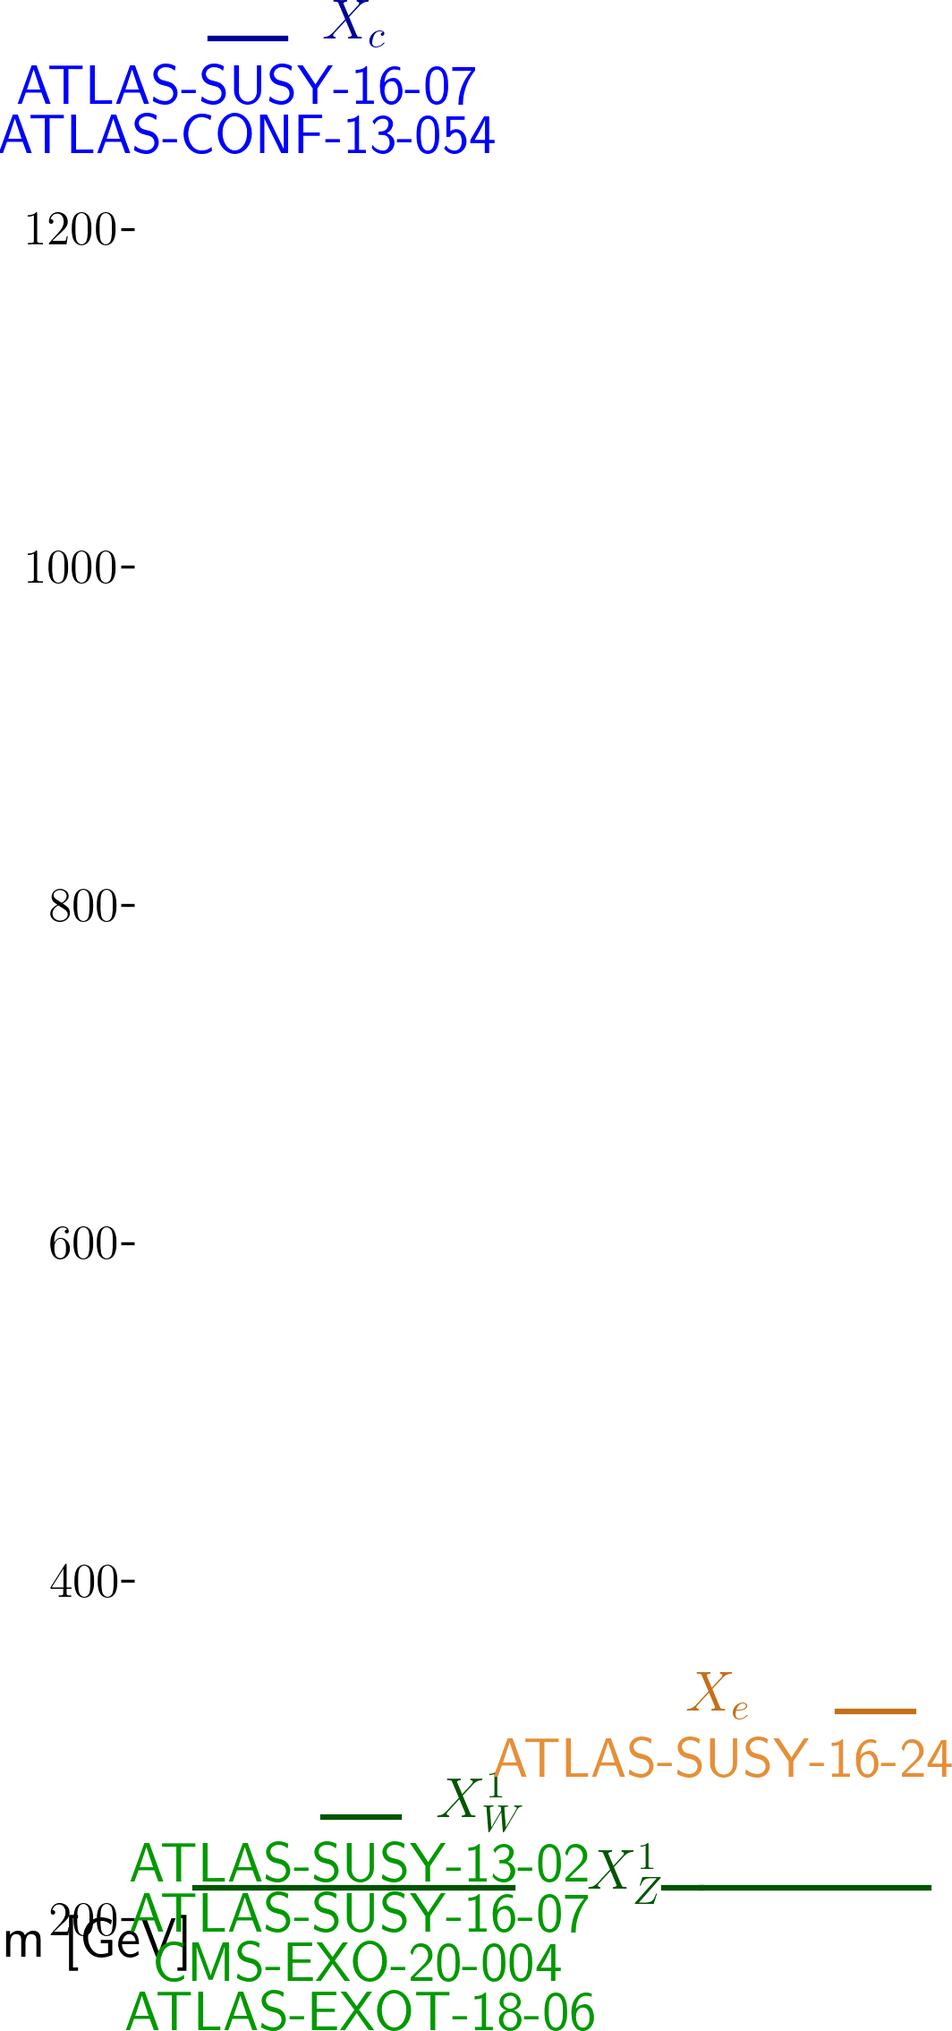
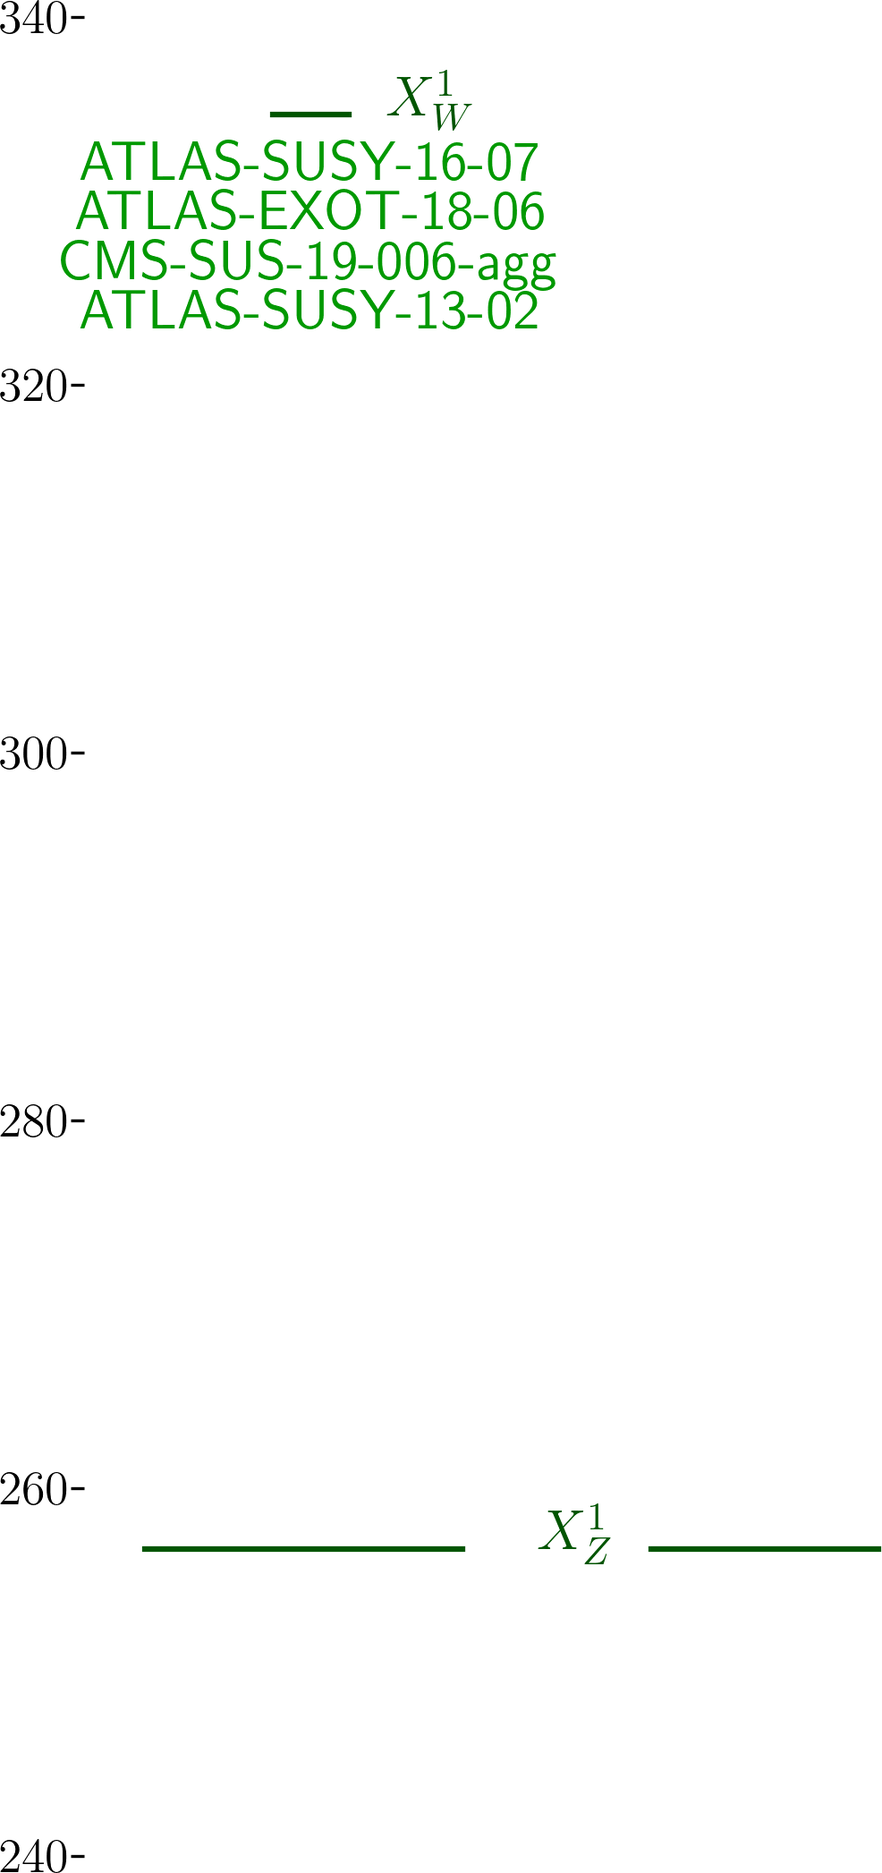
automated update by plotHiscore.py to fake_ewkoff1_310:     K=16.124 TL=18.87 walkerid=0

diff --git a/protomodels/fake_ewkoff1_310/rawnumbers.html b/protomodels/fake_ewkoff1_310/rawnumbers.html
@@ -1,45 +1,18 @@
 <table>
 <tr><th>Analysis Name</th><th>Type</th><th>Dataset</th><th>Topos</th><th>Observed</th><th>Expected</th><th>Approx &sigma;</th><th>Particles</th><th>Signal</th>
 </tr>
-<tr><td><a href=http://cms-results.web.cern.ch/cms-results/public-results/publications/EXO-20-004/>CMS-EXO-20-004</a></td><td>comb</td> <td>-</td><td>TChiWWISRqq, TChiZISRqq</td><td> 1e+02 fb </td><td> 9e+01 fb</td><td style="text-align:right">2.9 &sigma;</td><td style="text-align:right">X<sup>1</sup><sub>W</sub>, X<sup>1</sup><sub>Z</sub></td><td style="text-align:right">-</td></tr>
-<tr><td><a href=https://atlas.web.cern.ch/Atlas/GROUPS/PHYSICS/PAPERS/EXOT-2018-06/>ATLAS-EXOT-2018-06</a></td><td>em</td> <td>IM4</td><td>TChiWWISRqq, TChiZISRqq</td><td>152564</td><td>146400.00 +/- 2300.00</td><td style="text-align:right">2.6 &sigma;</td><td style="text-align:right">X<sup>1</sup><sub>W</sub>, X<sup>1</sup><sub>Z</sub></td><td style="text-align:right">3478</td></tr>
-<tr><td><a href=https://atlas.web.cern.ch/Atlas/GROUPS/PHYSICS/PAPERS/SUSY-2016-24/>ATLAS-SUSY-2016-24</a></td><td>em</td> <td>SR2-SF-tight</td><td>TSelSel</td><td>21</td><td>9.80 +/- 2.90</td><td style="text-align:right">2.3 &sigma;</td><td style="text-align:right">X<sub>e</sub>, X<sup>1</sup><sub>Z</sub></td><td style="text-align:right">-</td></tr>
-<tr><td><a href=https://atlas.web.cern.ch/Atlas/GROUPS/PHYSICS/CONFNOTES/ATLAS-CONF-2013-054/>ATLAS-CONF-2013-054</a></td><td>em</td> <td>9j50 flavor 0 b ...</td><td>T2</td><td>6</td><td>3.30 +/- 0.70</td><td style="text-align:right">1.3 &sigma;</td><td style="text-align:right">X<sub>c</sub>, X<sup>1</sup><sub>Z</sub></td><td style="text-align:right">-</td></tr>
-<tr><td><a href=https://atlas.web.cern.ch/Atlas/GROUPS/PHYSICS/PAPERS/SUSY-2016-07/>ATLAS-SUSY-2016-07</a></td><td>em</td> <td>5j_Meff_2000</td><td>T1, T2</td><td>78</td><td>65.00 +/- 7.00</td><td style="text-align:right">1.2 &sigma;</td><td style="text-align:right">X<sup>1</sup><sub>W</sub>, X<sub>c</sub>, X<sup>1</sup><sub>Z</sub></td><td style="text-align:right">-</td></tr>
-<tr><td><a href=https://atlas.web.cern.ch/Atlas/GROUPS/PHYSICS/PAPERS/SUSY-2013-02/>ATLAS-SUSY-2013-02</a></td><td>em</td> <td>SR3j</td><td>T1</td><td>7</td><td>5.00 +/- 1.20</td><td style="text-align:right">0.8 &sigma;</td><td style="text-align:right">X<sup>1</sup><sub>W</sub>, X<sup>1</sup><sub>Z</sub></td><td style="text-align:right">-</td></tr>
+<tr><td><a href=https://atlas.web.cern.ch/Atlas/GROUPS/PHYSICS/PAPERS/EXOT-2018-06/>ATLAS-EXOT-2018-06</a></td><td>em</td> <td>EM7</td><td>TChiISR, TChiWISRll, TChiWWISRqq, TChiZISRqq</td><td>4259</td><td>3870.00 +/- 80.00</td><td style="text-align:right">4.1 &sigma;</td><td style="text-align:right">X<sup>1</sup><sub>W</sub>, X<sup>1</sup><sub>Z</sub></td><td style="text-align:right">184</td></tr>
+<tr><td><a href=http://cms-results.web.cern.ch/cms-results/public-results/publications/SUS-19-006/index.html>CMS-SUS-19-006-agg</a></td><td>comb</td> <td>-</td><td>T1</td><td> 1e+01 fb </td><td> 1e+01 fb</td><td style="text-align:right">1.7 &sigma;</td><td style="text-align:right">X<sup>1</sup><sub>W</sub>, X<sup>1</sup><sub>Z</sub></td><td style="text-align:right">-</td></tr>
+<tr><td><a href=https://atlas.web.cern.ch/Atlas/GROUPS/PHYSICS/PAPERS/SUSY-2016-07/>ATLAS-SUSY-2016-07</a></td><td>em</td> <td>5j_Meff_1700</td><td>T1</td><td>50</td><td>43.00 +/- 5.00</td><td style="text-align:right">0.9 &sigma;</td><td style="text-align:right">X<sup>1</sup><sub>W</sub>, X<sup>1</sup><sub>Z</sub></td><td style="text-align:right">-</td></tr>
+<tr><td><a href=https://atlas.web.cern.ch/Atlas/GROUPS/PHYSICS/PAPERS/SUSY-2013-02/>ATLAS-SUSY-2013-02</a></td><td>em</td> <td>SR6jm</td><td>T1</td><td>36</td><td>33.00 +/- 6.00</td><td style="text-align:right">0.4 &sigma;</td><td style="text-align:right">X<sup>1</sup><sub>W</sub>, X<sup>1</sup><sub>Z</sub></td><td style="text-align:right">-</td></tr>
 </table>
 <table style='color:grey'>
-<tr><th>Not in Best Combo</th><th>Type</th><th>Dataset</th><th>Topos</th><th>Observed</th><th>Expected</th><th>Approx &sigma;</th><th>Particles</th><tr><td><a href=https://atlas.web.cern.ch/Atlas/GROUPS/PHYSICS/CONFNOTES/ATLAS-CONF-2013-047/>ATLAS-CONF-2013-047</a></td><td>em</td> <td>C Tight</td><td>T2</td><td>9</td><td>1.60 +/- 1.40</td><td style="text-align:right">2.8 &sigma;</td><td style="text-align:right">X<sub>c</sub>, X<sup>1</sup><sub>Z</sub></td><td style="text-align:right">-</td></tr>
-<tr><td><a href=http://atlas.web.cern.ch/Atlas/GROUPS/PHYSICS/PAPERS/SUSY-2015-06/>ATLAS-SUSY-2015-06</a></td><td>em</td> <td>SR2jl</td><td>T2</td><td>340</td><td>283.00 +/- 24.00</td><td style="text-align:right">1.9 &sigma;</td><td style="text-align:right">X<sub>c</sub>, X<sup>1</sup><sub>Z</sub></td><td style="text-align:right">-</td></tr>
-<tr><td><a href=http://cms-results.web.cern.ch/cms-results/public-results/publications/SUS-16-033/index.html>CMS-SUS-16-033</a></td><td>em</td> <td>SR1_Njet2_Nb0_H ...</td><td>T1, T2</td><td>8402</td><td>7584.00 +/- 433.00</td><td style="text-align:right">1.8 &sigma;</td><td style="text-align:right">X<sup>1</sup><sub>W</sub>, X<sub>c</sub>, X<sup>1</sup><sub>Z</sub></td><td style="text-align:right">-</td></tr>
-<tr><td><a href=https://atlas.web.cern.ch/Atlas/GROUPS/PHYSICS/CONFNOTES/ATLAS-CONF-2013-047/>ATLAS-CONF-2013-047</a></td><td>em</td> <td>E Medium</td><td>T2</td><td>43</td><td>30.00 +/- 8.00</td><td style="text-align:right">1.3 &sigma;</td><td style="text-align:right">X<sub>c</sub>, X<sup>1</sup><sub>Z</sub></td><td style="text-align:right">-</td></tr>
-<tr><td><a href=https://atlas.web.cern.ch/Atlas/GROUPS/PHYSICS/CONFNOTES/ATLAS-CONF-2013-047/>ATLAS-CONF-2013-047</a></td><td>em</td> <td>B Medium</td><td>T2</td><td>44</td><td>33.00 +/- 7.00</td><td style="text-align:right">1.2 &sigma;</td><td style="text-align:right">X<sub>c</sub>, X<sup>1</sup><sub>Z</sub></td><td style="text-align:right">-</td></tr>
-<tr><td><a href=http://cms-results.web.cern.ch/cms-results/public-results/publications/SUS-16-033/index.html>CMS-SUS-16-033</a></td><td>em</td> <td>SR11_Njet7_Nb1_ ...</td><td>T1, T2</td><td>1056</td><td>969.00 +/- 80.00</td><td style="text-align:right">1.0 &sigma;</td><td style="text-align:right">X<sup>1</sup><sub>W</sub>, X<sub>c</sub>, X<sup>1</sup><sub>Z</sub></td><td style="text-align:right">-</td></tr>
-<tr><td><a href=http://cms-results.web.cern.ch/cms-results/public-results/publications/SUS-16-033/index.html>CMS-SUS-16-033</a></td><td>em</td> <td>SR9_NJet5_Nb2_H ...</td><td>T2</td><td>8</td><td>4.40 +/- 3.40</td><td style="text-align:right">0.8 &sigma;</td><td style="text-align:right">X<sub>c</sub>, X<sup>1</sup><sub>Z</sub></td><td style="text-align:right">-</td></tr>
-<tr><td><a href=https://atlas.web.cern.ch/Atlas/GROUPS/PHYSICS/PAPERS/SUSY-2018-22/>ATLAS-SUSY-2018-22</a></td><td>em</td> <td>SR2j_2800</td><td>T2</td><td>94</td><td>87.00 +/- 8.00</td><td style="text-align:right">0.6 &sigma;</td><td style="text-align:right">X<sub>c</sub>, X<sup>1</sup><sub>Z</sub></td><td style="text-align:right">-</td></tr>
-<tr><td><a href=https://atlas.web.cern.ch/Atlas/GROUPS/PHYSICS/CONFNOTES/ATLAS-CONF-2013-047/>ATLAS-CONF-2013-047</a></td><td>em</td> <td>D</td><td>T2</td><td>18</td><td>15.00 +/- 5.00</td><td style="text-align:right">0.5 &sigma;</td><td style="text-align:right">X<sub>c</sub>, X<sup>1</sup><sub>Z</sub></td><td style="text-align:right">-</td></tr>
-<tr><td><a href=http://atlas.web.cern.ch/Atlas/GROUPS/PHYSICS/PAPERS/SUSY-2015-06/>ATLAS-SUSY-2015-06</a></td><td>em</td> <td>SR4jt</td><td>T2</td><td>5</td><td>4.10 +/- 1.10</td><td style="text-align:right">0.5 &sigma;</td><td style="text-align:right">X<sub>c</sub>, X<sup>1</sup><sub>Z</sub></td><td style="text-align:right">-</td></tr>
-<tr><td><a href=http://atlas.web.cern.ch/Atlas/GROUPS/PHYSICS/PAPERS/SUSY-2015-06/>ATLAS-SUSY-2015-06</a></td><td>em</td> <td>SR6jm</td><td>T2</td><td>8</td><td>6.90 +/- 1.50</td><td style="text-align:right">0.4 &sigma;</td><td style="text-align:right">X<sub>c</sub>, X<sup>1</sup><sub>Z</sub></td><td style="text-align:right">-</td></tr>
-<tr><td><a href=https://atlas.web.cern.ch/Atlas/GROUPS/PHYSICS/CONFNOTES/ATLAS-CONF-2013-047/>ATLAS-CONF-2013-047</a></td><td>em</td> <td>B Tight</td><td>T2</td><td>3</td><td>2.40 +/- 1.40</td><td style="text-align:right">0.4 &sigma;</td><td style="text-align:right">X<sub>c</sub>, X<sup>1</sup><sub>Z</sub></td><td style="text-align:right">-</td></tr>
-<tr><td><a href=http://cms-results.web.cern.ch/cms-results/public-results/publications/SUS-16-033/index.html>CMS-SUS-16-033</a></td><td>em</td> <td>SR7_Njet3_Nb1_H ...</td><td>T2</td><td>119</td><td>113.00 +/- 18.00</td><td style="text-align:right">0.3 &sigma;</td><td style="text-align:right">X<sub>c</sub>, X<sup>1</sup><sub>Z</sub></td><td style="text-align:right">-</td></tr>
-<tr><td><a href=http://cms-results.web.cern.ch/cms-results/public-results/publications/SUS-16-033/index.html>CMS-SUS-16-033</a></td><td>em</td> <td>SR3_Njet5_Nb0_H ...</td><td>T1, T2</td><td>820</td><td>806.00 +/- 57.00</td><td style="text-align:right">0.2 &sigma;</td><td style="text-align:right">X<sup>1</sup><sub>W</sub>, X<sub>c</sub>, X<sup>1</sup><sub>Z</sub></td><td style="text-align:right">-</td></tr>
-<tr><td><a href=http://cms-results.web.cern.ch/cms-results/public-results/publications/SUS-16-033/index.html>CMS-SUS-16-033</a></td><td>em</td> <td>SR4_Njet5_Nb0_H ...</td><td>T2</td><td>24</td><td>23.00 +/- 6.50</td><td style="text-align:right">0.2 &sigma;</td><td style="text-align:right">X<sub>c</sub>, X<sup>1</sup><sub>Z</sub></td><td style="text-align:right">-</td></tr>
-<tr><td><a href=https://atlas.web.cern.ch/Atlas/GROUPS/PHYSICS/CONFNOTES/ATLAS-CONF-2013-047/>ATLAS-CONF-2013-047</a></td><td>em</td> <td>E Loose</td><td>T2</td><td>115</td><td>113.00 +/- 21.00</td><td style="text-align:right">0.1 &sigma;</td><td style="text-align:right">X<sub>c</sub>, X<sup>1</sup><sub>Z</sub></td><td style="text-align:right">-</td></tr>
-<tr><td><a href=https://atlas.web.cern.ch/Atlas/GROUPS/PHYSICS/CONFNOTES/ATLAS-CONF-2013-047/>ATLAS-CONF-2013-047</a></td><td>em</td> <td>A Medium</td><td>T2</td><td>123</td><td>122.00 +/- 18.00</td><td style="text-align:right">0.1 &sigma;</td><td style="text-align:right">X<sub>c</sub>, X<sup>1</sup><sub>Z</sub></td><td style="text-align:right">-</td></tr>
-<tr><td><a href=http://cms-results.web.cern.ch/cms-results/public-results/publications/SUS-16-033/index.html>CMS-SUS-16-033</a></td><td>em</td> <td>SR6_Njet2_Nb2_H ...</td><td>T2</td><td>194</td><td>196.00 +/- 28.00</td><td style="text-align:right">-0.0 &sigma;</td><td style="text-align:right">X<sub>c</sub>, X<sup>1</sup><sub>Z</sub></td><td style="text-align:right">-</td></tr>
-<tr><td><a href=http://cms-results.web.cern.ch/cms-results/public-results/publications/SUS-16-033/index.html>CMS-SUS-16-033</a></td><td>em</td> <td>SR12_Njet5_Nb1_ ...</td><td>T2</td><td>41</td><td>42.20 +/- 9.70</td><td style="text-align:right">-0.1 &sigma;</td><td style="text-align:right">X<sub>c</sub>, X<sup>1</sup><sub>Z</sub></td><td style="text-align:right">-</td></tr>
-<tr><td><a href=http://atlas.web.cern.ch/Atlas/GROUPS/PHYSICS/PAPERS/SUSY-2015-06/>ATLAS-SUSY-2015-06</a></td><td>em</td> <td>SR2jm</td><td>T2</td><td>186</td><td>191.00 +/- 21.00</td><td style="text-align:right">-0.2 &sigma;</td><td style="text-align:right">X<sub>c</sub>, X<sup>1</sup><sub>Z</sub></td><td style="text-align:right">-</td></tr>
-<tr><td><a href=https://atlas.web.cern.ch/Atlas/GROUPS/PHYSICS/PAPERS/SUSY-2018-22/>ATLAS-SUSY-2018-22</a></td><td>em</td> <td>SR2j_1600</td><td>T2</td><td>2152</td><td>2190.00 +/- 130.00</td><td style="text-align:right">-0.3 &sigma;</td><td style="text-align:right">X<sub>c</sub>, X<sup>1</sup><sub>Z</sub></td><td style="text-align:right">-</td></tr>
-<tr><td><a href=https://atlas.web.cern.ch/Atlas/GROUPS/PHYSICS/CONFNOTES/ATLAS-CONF-2013-047/>ATLAS-CONF-2013-047</a></td><td>em</td> <td>A Loose</td><td>T2</td><td>4489</td><td>4700.00 +/- 500.00</td><td style="text-align:right">-0.4 &sigma;</td><td style="text-align:right">X<sub>c</sub>, X<sup>1</sup><sub>Z</sub></td><td style="text-align:right">-</td></tr>
-<tr><td><a href=https://atlas.web.cern.ch/Atlas/GROUPS/PHYSICS/CONFNOTES/ATLAS-CONF-2013-047/>ATLAS-CONF-2013-047</a></td><td>em</td> <td>C Medium</td><td>T2</td><td>189</td><td>210.00 +/- 40.00</td><td style="text-align:right">-0.5 &sigma;</td><td style="text-align:right">X<sub>c</sub>, X<sup>1</sup><sub>Z</sub></td><td style="text-align:right">-</td></tr>
-<tr><td><a href=http://cms-results.web.cern.ch/cms-results/public-results/publications/SUS-16-033/index.html>CMS-SUS-16-033</a></td><td>em</td> <td>SR10_Njet9_Nb3_ ...</td><td>T2</td><td>0</td><td>0.00 +/- 1.30</td><td style="text-align:right">-0.8 &sigma;</td><td style="text-align:right">X<sub>c</sub>, X<sup>1</sup><sub>Z</sub></td><td style="text-align:right">-</td></tr>
-<tr><td><a href=http://cms-results.web.cern.ch/cms-results/public-results/publications/SUS-19-006/index.html>CMS-SUS-19-006-agg</a></td><td>comb</td> <td>-</td><td>T2</td><td> 1 fb </td><td> 1 fb</td><td style="text-align:right">-0.8 &sigma;</td><td style="text-align:right">X<sub>c</sub>, X<sup>1</sup><sub>Z</sub></td><td style="text-align:right">-</td></tr>
-<tr><td><a href=http://cms-results.web.cern.ch/cms-results/public-results/publications/SUS-16-033/index.html>CMS-SUS-16-033</a></td><td>em</td> <td>SR5_Njet9_Nb0_H ...</td><td>T2</td><td>0</td><td>0.60 +/- 1.30</td><td style="text-align:right">-0.9 &sigma;</td><td style="text-align:right">X<sub>c</sub>, X<sup>1</sup><sub>Z</sub></td><td style="text-align:right">-</td></tr>
-<tr><td><a href=http://atlas.web.cern.ch/Atlas/GROUPS/PHYSICS/PAPERS/SUSY-2015-06/>ATLAS-SUSY-2015-06</a></td><td>em</td> <td>SR6jt</td><td>T2</td><td>2</td><td>4.20 +/- 1.20</td><td style="text-align:right">-0.9 &sigma;</td><td style="text-align:right">X<sub>c</sub>, X<sup>1</sup><sub>Z</sub></td><td style="text-align:right">-</td></tr>
-<tr><td><a href=http://cms-results.web.cern.ch/cms-results/public-results/publications/SUS-16-033/index.html>CMS-SUS-16-033</a></td><td>em</td> <td>SR2_Njet3_Nb0_H ...</td><td>T2</td><td>42</td><td>55.20 +/- 11.50</td><td style="text-align:right">-1.0 &sigma;</td><td style="text-align:right">X<sub>c</sub>, X<sup>1</sup><sub>Z</sub></td><td style="text-align:right">-</td></tr>
-<tr><td><a href=https://atlas.web.cern.ch/Atlas/GROUPS/PHYSICS/PAPERS/SUSY-2018-22/>ATLAS-SUSY-2018-22</a></td><td>em</td> <td>SR2j_2200</td><td>T2</td><td>911</td><td>980.00 +/- 50.00</td><td style="text-align:right">-1.2 &sigma;</td><td style="text-align:right">X<sub>c</sub>, X<sup>1</sup><sub>Z</sub></td><td style="text-align:right">-</td></tr>
-<tr><td><a href=http://cms-results.web.cern.ch/cms-results/public-results/publications/SUS-16-033/index.html>CMS-SUS-16-033</a></td><td>em</td> <td>SR8_Njet5_Nb3_H ...</td><td>T2</td><td>8</td><td>19.50 +/- 8.40</td><td style="text-align:right">-1.3 &sigma;</td><td style="text-align:right">X<sub>c</sub>, X<sup>1</sup><sub>Z</sub></td><td style="text-align:right">-</td></tr>
-<tr><td><a href=https://atlas.web.cern.ch/Atlas/GROUPS/PHYSICS/CONFNOTES/ATLAS-CONF-2013-047/>ATLAS-CONF-2013-047</a></td><td>em</td> <td>E Tight</td><td>T2</td><td>0</td><td>2.90 +/- 1.80</td><td style="text-align:right">-1.5 &sigma;</td><td style="text-align:right">X<sub>c</sub>, X<sup>1</sup><sub>Z</sub></td><td style="text-align:right">-</td></tr>
-<tr><td><a href=http://atlas.web.cern.ch/Atlas/GROUPS/PHYSICS/PAPERS/SUSY-2015-06/>ATLAS-SUSY-2015-06</a></td><td>em</td> <td>SR2jt</td><td>T2</td><td>13</td><td>23.00 +/- 4.00</td><td style="text-align:right">-1.7 &sigma;</td><td style="text-align:right">X<sub>c</sub>, X<sup>1</sup><sub>Z</sub></td><td style="text-align:right">-</td></tr>
-<tr><td><a href=http://atlas.web.cern.ch/Atlas/GROUPS/PHYSICS/PAPERS/SUSY-2015-06/>ATLAS-SUSY-2015-06</a></td><td>em</td> <td>SR5j</td><td>T2</td><td>5</td><td>13.20 +/- 2.20</td><td style="text-align:right">-2.1 &sigma;</td><td style="text-align:right">X<sub>c</sub>, X<sup>1</sup><sub>Z</sub></td><td style="text-align:right">-</td></tr>
+<tr><th>Not in Best Combo</th><th>Type</th><th>Dataset</th><th>Topos</th><th>Observed</th><th>Expected</th><th>Approx &sigma;</th><th>Particles</th><tr><td><a href=http://cms-results.web.cern.ch/cms-results/public-results/publications/SUS-16-033/index.html>CMS-SUS-16-033</a></td><td>em</td> <td>SR3_Njet5_Nb0_H ...</td><td>T1</td><td>895</td><td>806.00 +/- 57.00</td><td style="text-align:right">1.4 &sigma;</td><td style="text-align:right">X<sup>1</sup><sub>W</sub>, X<sup>1</sup><sub>Z</sub></td><td style="text-align:right">-</td></tr>
+<tr><td><a href=http://cms-results.web.cern.ch/cms-results/public-results/publications/SUS-16-033/index.html>CMS-SUS-16-033</a></td><td>em</td> <td>SR1_Njet2_Nb0_H ...</td><td>T1</td><td>7881</td><td>7584.00 +/- 433.00</td><td style="text-align:right">0.7 &sigma;</td><td style="text-align:right">X<sup>1</sup><sub>W</sub>, X<sup>1</sup><sub>Z</sub></td><td style="text-align:right">-</td></tr>
+<tr><td><a href=https://atlas.web.cern.ch/Atlas/GROUPS/PHYSICS/CONFNOTES/ATLAS-CONF-2013-047/>ATLAS-CONF-2013-047</a></td><td>em</td> <td>A Medium</td><td>T1</td><td>131</td><td>122.00 +/- 18.00</td><td style="text-align:right">0.4 &sigma;</td><td style="text-align:right">X<sup>1</sup><sub>W</sub>, X<sup>1</sup><sub>Z</sub></td><td style="text-align:right">-</td></tr>
+<tr><td><a href=http://cms-results.web.cern.ch/cms-results/public-results/publications/SUS-16-033/index.html>CMS-SUS-16-033</a></td><td>em</td> <td>SR11_Njet7_Nb1_ ...</td><td>T1</td><td>965</td><td>969.00 +/- 80.00</td><td style="text-align:right">-0.0 &sigma;</td><td style="text-align:right">X<sup>1</sup><sub>W</sub>, X<sup>1</sup><sub>Z</sub></td><td style="text-align:right">-</td></tr>
+<tr><td><a href=https://atlas.web.cern.ch/Atlas/GROUPS/PHYSICS/CONFNOTES/ATLAS-CONF-2013-047/>ATLAS-CONF-2013-047</a></td><td>em</td> <td>A Loose</td><td>T1</td><td>4563</td><td>4700.00 +/- 500.00</td><td style="text-align:right">-0.3 &sigma;</td><td style="text-align:right">X<sup>1</sup><sub>W</sub>, X<sup>1</sup><sub>Z</sub></td><td style="text-align:right">-</td></tr>
+<tr><td><a href=https://atlas.web.cern.ch/Atlas/GROUPS/PHYSICS/CONFNOTES/ATLAS-CONF-2013-047/>ATLAS-CONF-2013-047</a></td><td>em</td> <td>E Loose</td><td>T1</td><td>102</td><td>113.00 +/- 21.00</td><td style="text-align:right">-0.5 &sigma;</td><td style="text-align:right">X<sup>1</sup><sub>W</sub>, X<sup>1</sup><sub>Z</sub></td><td style="text-align:right">-</td></tr>
+<tr><td><a href=https://atlas.web.cern.ch/Atlas/GROUPS/PHYSICS/CONFNOTES/ATLAS-CONF-2013-047/>ATLAS-CONF-2013-047</a></td><td>em</td> <td>C Medium</td><td>T1</td><td>171</td><td>210.00 +/- 40.00</td><td style="text-align:right">-0.9 &sigma;</td><td style="text-align:right">X<sup>1</sup><sub>W</sub>, X<sup>1</sup><sub>Z</sub></td><td style="text-align:right">-</td></tr>
+<tr><td><a href=http://cms-results.web.cern.ch/cms-results/public-results/publications/EXO-20-004/>CMS-EXO-20-004</a></td><td>comb</td> <td>-</td><td>TChiISR, TChiWISRll, TChiWWISRqq, TChiZISRqq</td><td> 4e+01 fb </td><td> 4e+01 fb</td><td style="text-align:right">-2.0 &sigma;</td><td style="text-align:right">X<sup>1</sup><sub>W</sub>, X<sup>1</sup><sub>Z</sub></td><td style="text-align:right">-</td></tr>
 </table>

diff --git a/protomodels/fake_ewkoff1_310/index.html b/protomodels/fake_ewkoff1_310/index.html
@@ -1,24 +1,24 @@
 <html>
 <body>
 <center>
-<table><td><h1>Current best protomodel: <i>K</i>=17.39, <i>TL</i>=22.89</h1><td><img height=60px src=https://smodels.github.io//protomodels/logos/protomodel_lego.png></table>
+<table><td><h1>Current best protomodel: <i>K</i>=16.12, <i>TL</i>=18.87</h1><td><img height=60px src=https://smodels.github.io//protomodels/logos/protomodel_lego.png></table>
 </center>
-<b><a href=./hiscore.slha>ProtoModel</a> <a href=./pmodel.dict>(dict)</a> produced with <a href=https://smodels.github.io//docs/Validation310fastsignal>database v3.1.0.fastsignal</a>, combination strategy <a href=./matrix.png>aggressive</a> in walker 0 step 982.</b> <br>
+<b><a href=./hiscore.slha>ProtoModel</a> <a href=./pmodel.dict>(dict)</a> produced with <a href=https://smodels.github.io//docs/Validation310fast_ewkoff1>database v3.1.0.fast_ewkoff1</a>, combination strategy <a href=./matrix.png>aggressive</a> in walker 0 step 123.</b> <br>
 <table width=80%>
 <tr><td>
 <br><b>Critics:</b> passed both critics<br>
-<br><b>LLHD Critic:</b> ATLAS-EXOT-2018-06:EM7, CMS-EXO-20-004:combined, ATLAS-SUSY-2016-24:SR2-SF-loose, ATLAS-SUSY-2016-07:2j_Meff_2100, ATLAS-SUSY-2013-02:SR3j:: <span style='color: darkgreen;'>robs=0.99, rexp=2.91</span><br>
-<br><b>17 predictions available. Highest r values are:</b><br><ul>
-<li><a href=https://atlas.web.cern.ch/Atlas/GROUPS/PHYSICS/PAPERS/EXOT-2018-06/>ATLAS-EXOT-2018-06</a>:EM7:TChiZISRqq,TChiWWISRqq r=1.07, r<sub>exp</sub>=2.03<br>
-<li><a href=https://atlas.web.cern.ch/Atlas/GROUPS/PHYSICS/PAPERS/SUSY-2016-24/>ATLAS-SUSY-2016-24</a>:SR2-SF-loose:TSelSel r=0.88, r<sub>exp</sub>=1.21<br>
-<li><a href=https://atlas.web.cern.ch/Atlas/GROUPS/PHYSICS/PAPERS/SUSY-2018-22/>ATLAS-SUSY-2018-22</a>:ul:T2 r=0.83, r<sub>exp</sub>=N/A<br>
-<li><a href=http://cms-results.web.cern.ch/cms-results/public-results/publications/SUS-19-006/index.html>CMS-SUS-19-006</a>:ul:T2 r=0.81, r<sub>exp</sub>=0.43<br>
+<br><b>LLHD Critic:</b> ATLAS-EXOT-2018-06:EM7, CMS-EXO-20-004:combined, ATLAS-SUSY-2016-07:5j_Meff_1700:: <span style='color: darkgreen;'>robs=0.99, rexp=2.86</span><br>
+<br><b>7 predictions available. Highest r values are:</b><br><ul>
+<li><a href=https://atlas.web.cern.ch/Atlas/GROUPS/PHYSICS/PAPERS/EXOT-2018-06/>ATLAS-EXOT-2018-06</a>:EM7:TChiWWISRqq,TChiWISRll,TChiZISRqq,TChiISR r=1.15, r<sub>exp</sub>=2.10<br>
+<li><a href=http://cms-results.web.cern.ch/cms-results/public-results/publications/EXO-20-004/>CMS-EXO-20-004</a>:SR_2018_12:TChiWWISRqq,TChiWISRll,TChiZISRqq,TChiISR r=0.53, r<sub>exp</sub>=0.67<br>
+<li><a href=http://cms-results.web.cern.ch/cms-results/public-results/publications/SUS-19-006/index.html>CMS-SUS-19-006-agg</a>:AR17:T1 r=0.27, r<sub>exp</sub>=0.42<br>
+<li><a href=https://atlas.web.cern.ch/Atlas/GROUPS/PHYSICS/PAPERS/SUSY-2016-07/>ATLAS-SUSY-2016-07</a>:5j_Meff_1700:T1 r=0.16, r<sub>exp</sub>=0.22<br>
 </ul>
-<td><img width=600px src=./texdoc.png?1757155258>
-<br><span style='font-size: smaller; color: darkred;'>Last updated: Sat Sep  6 12:40:58 2025</span>
+<td><img width=600px src=./texdoc.png?1757660947>
+<br><span style='font-size: smaller; color: darkred;'>Last updated: Fri Sep 12 09:09:07 2025</span>
 </table><table style="width:80%">
-<td width=45%><img height=580px src=./ruler.png?1757155258><td width=55%><img height=220px src=./decays.png?1757155258>
-<font size=-3><iframe type="text/html" height="350px" width="100%" frameborder="0" src="./rawnumbers.html?1757155258"></iframe></font>
+<td width=45%><img height=580px src=./ruler.png?1757660947><td width=55%><img height=220px src=./decays.png?1757660947>
+<font size=-3><iframe type="text/html" height="350px" width="100%" frameborder="0" src="./rawnumbers.html?1757660947"></iframe></font>
 </table>
 </body>
 </html>
